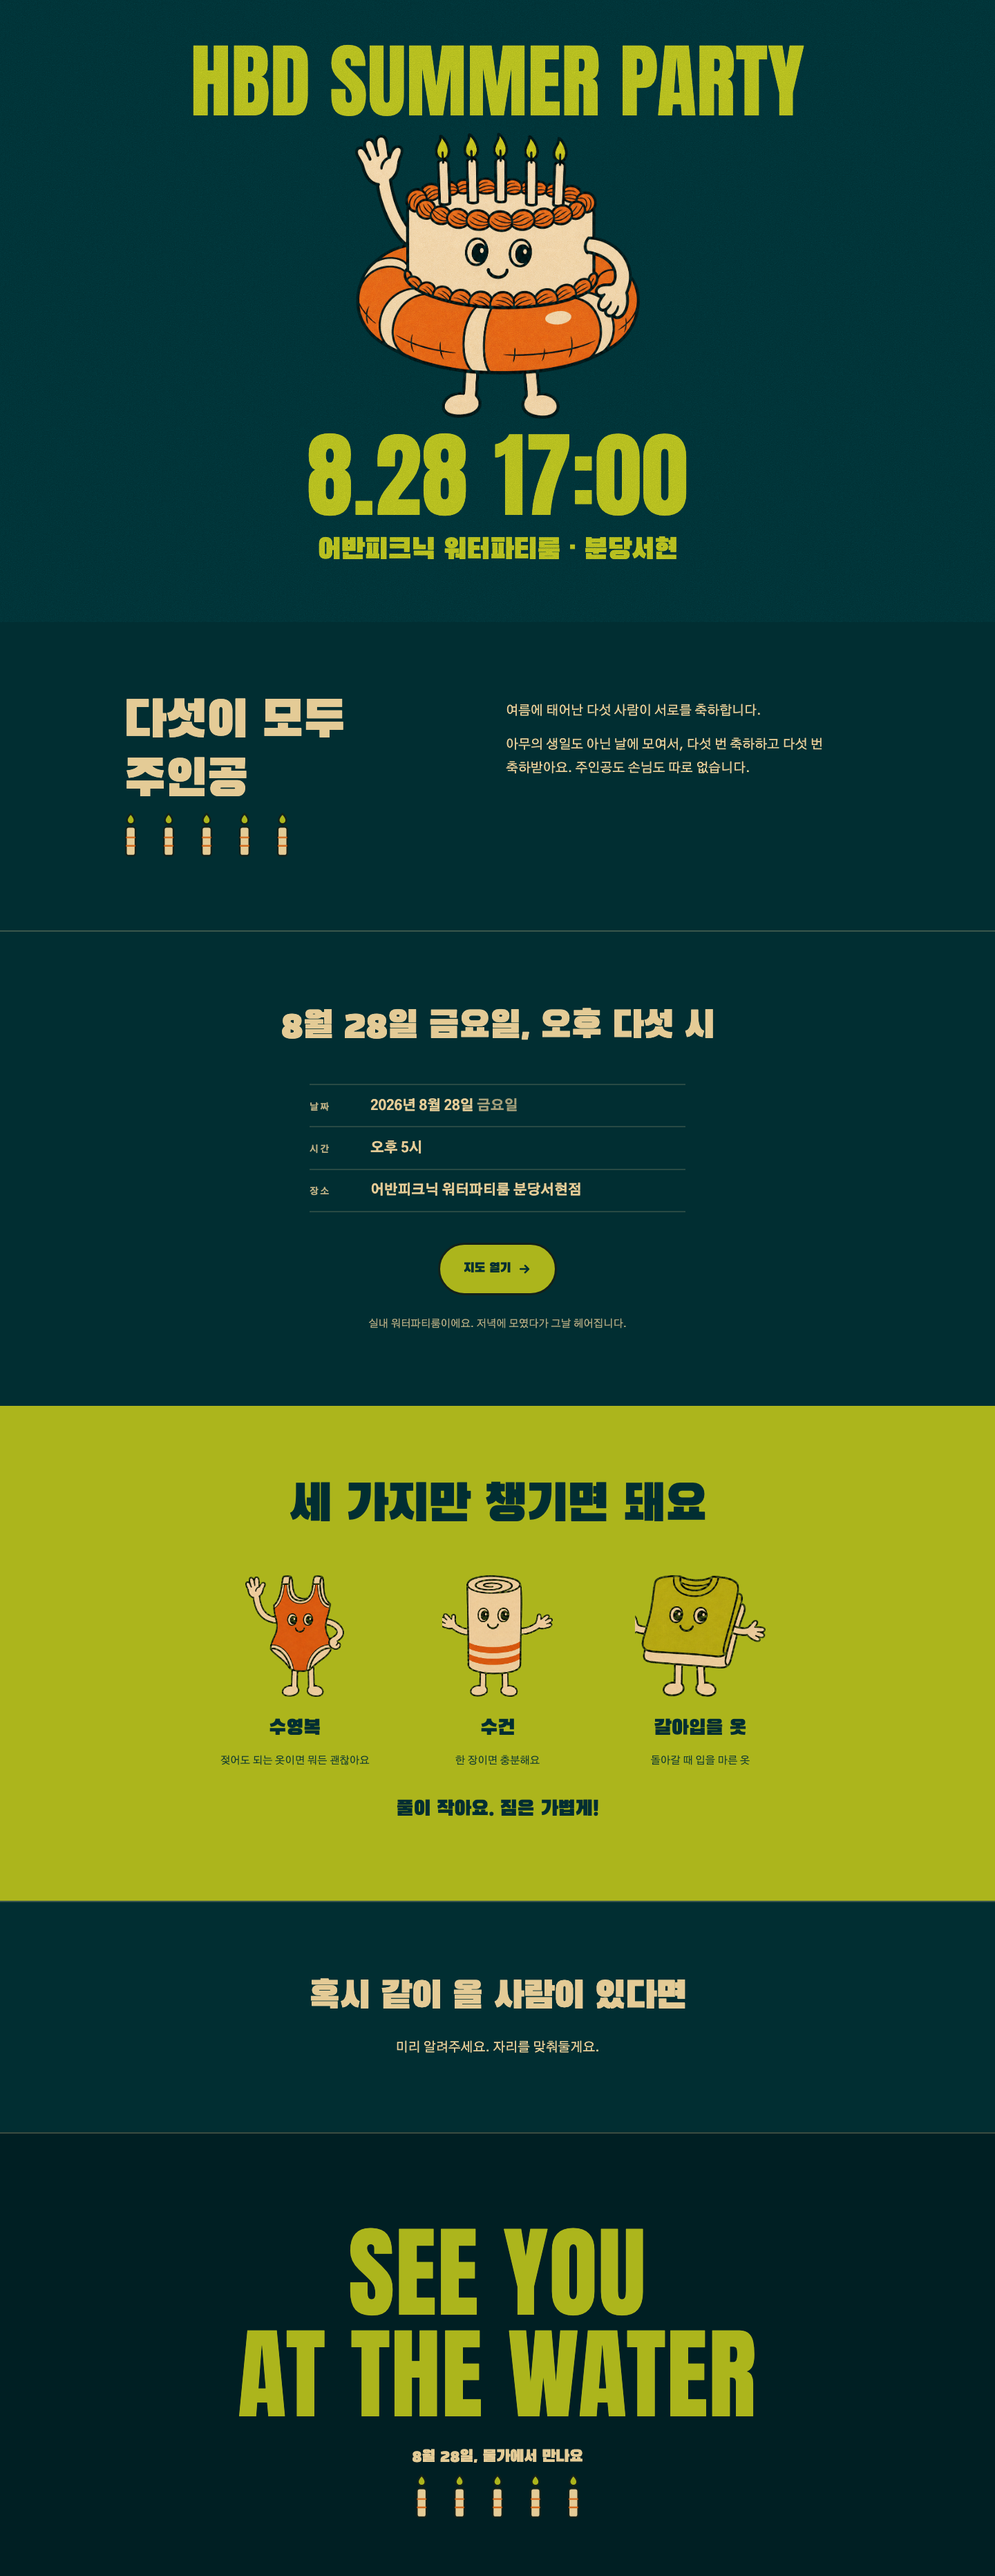
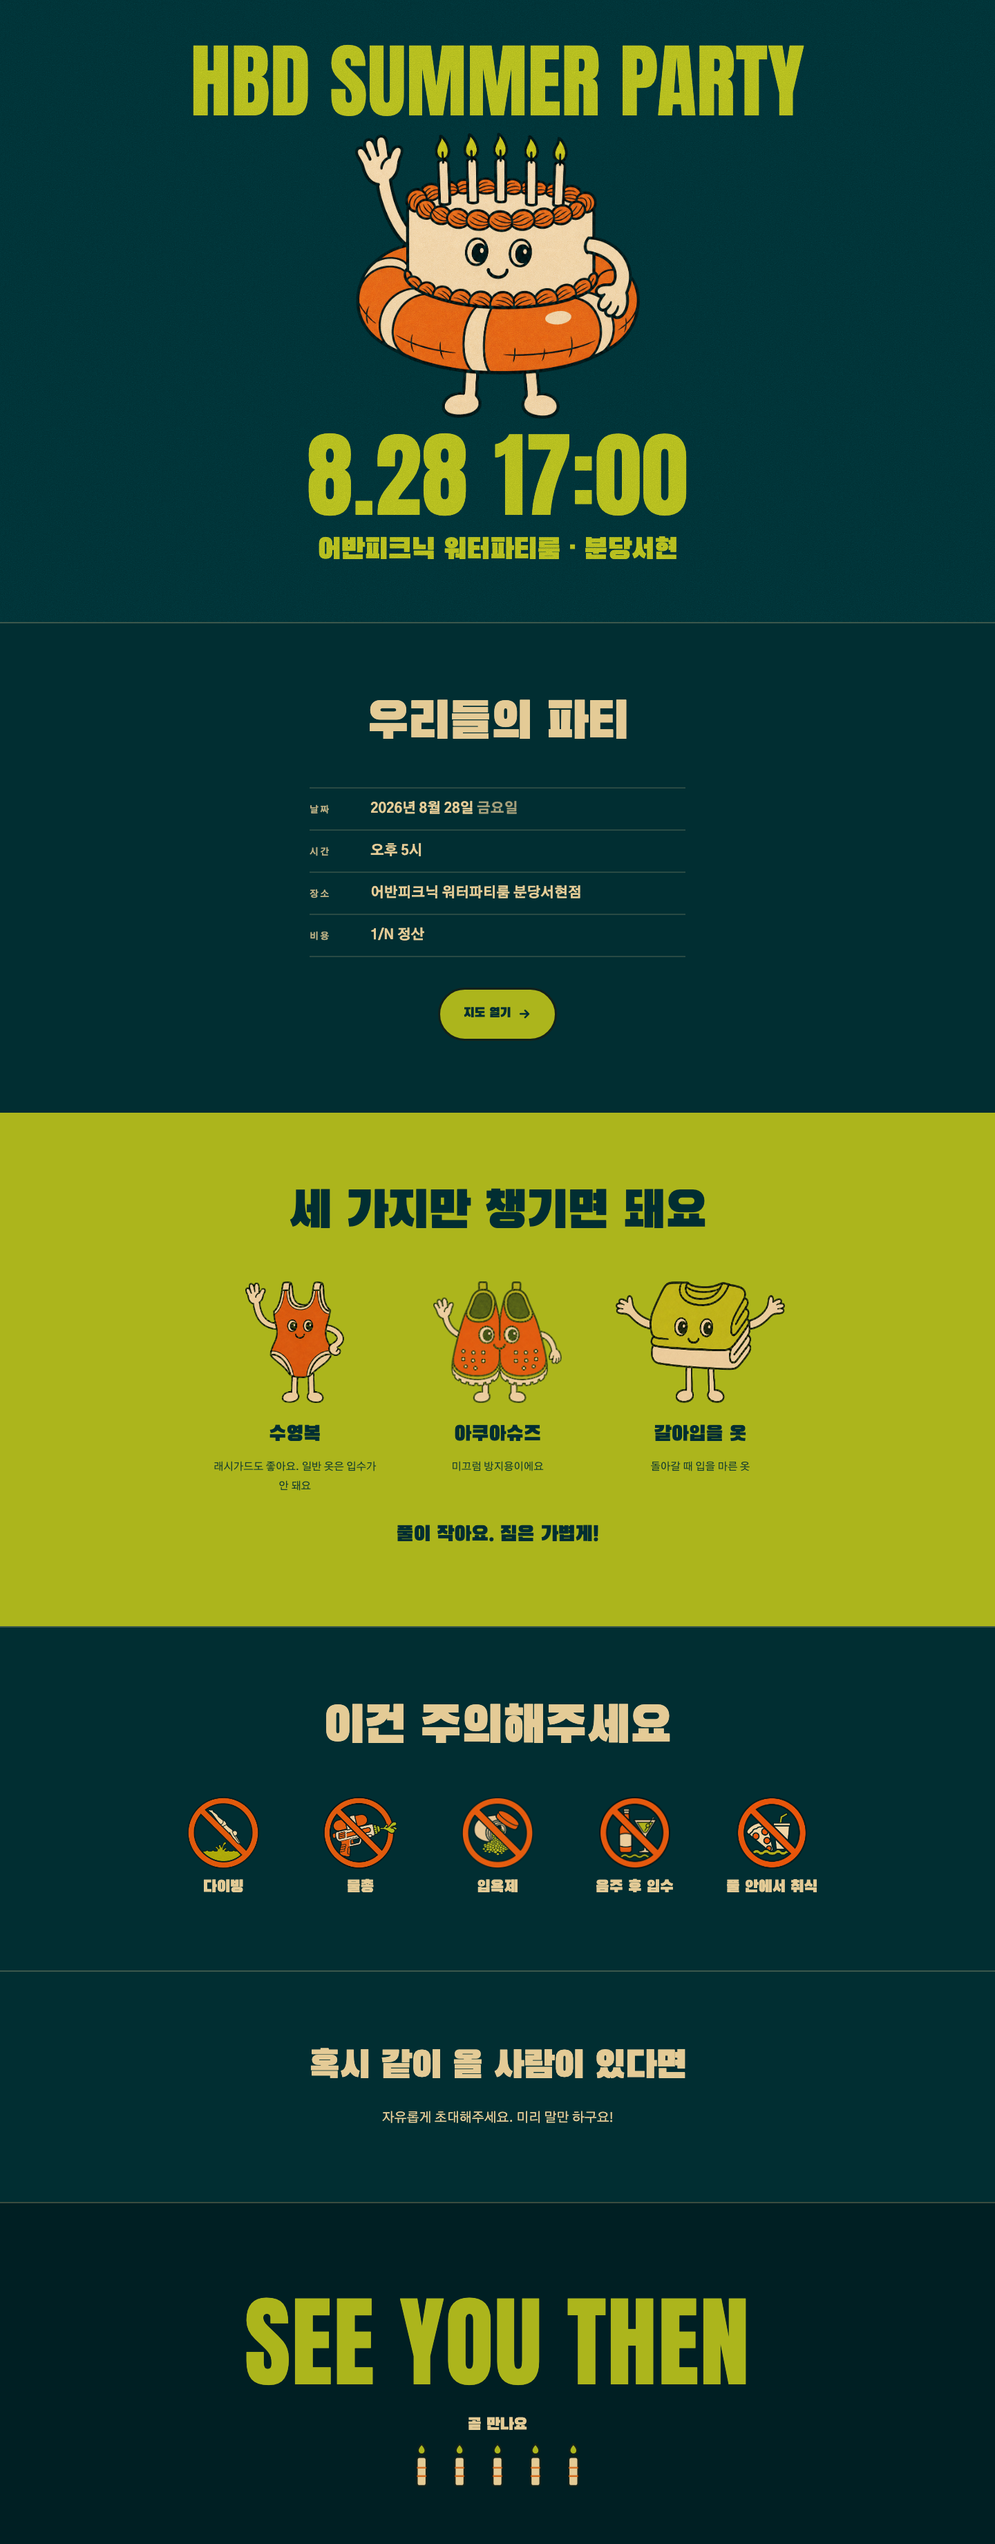
Update the invitation for the host's corrections
Content changes requested by the host:
- drop the "다섯이 모두 주인공" section
- retitle the particulars to "우리들의 파티" and add a 비용 row (1/N 정산)
- drop the indoor/evening note
- close on "See you then" / "곧 만나요"
- open the invite copy up: "자유롭게 초대해주세요. 미리 말만 하구요!"

Two of these correct facts the site had wrong, so PRODUCT.md is corrected too
rather than only the page:
- the venue does NOT allow ordinary clothes in the water. Only a swimsuit or a
  rashguard. The old "젖어도 되는 옷" wording was the opposite of the rule.
- towels are provided by the venue, so 수건 leaves the packing list and
  아쿠아슈즈 (slip protection) takes its place. Still three items.

New "이건 주의해주세요" section carries the five venue rules — no diving, no
water guns, no bath salts, no swimming after drinking, no eating in the pool —
each with its own generated prohibition icon in the page's silkscreen style.

The two kit rasters that were clipped at the source sheet's crop boundary are
replaced with individually generated art, so nothing is cut off on the left.
The superseded rasters are deleted rather than left unreferenced.

Changed region(s): [[0.0, 0.2499, 1.0, 0.9685], [0.3125, 0.0625, 0.6875, 0.2187]]

diff --git a/PRODUCT.md b/PRODUCT.md
@@ -64,9 +64,13 @@ the others contradicts the product.
 - The single-day evening event has no overnight stay. Indoors, in a water party room
   with a small pool area.
 - Formality is come-as-you-are: a casual gathering of close friends.
-- Guests must arrive with light swim gear — a swimsuit or clothes that can get wet, a
-  towel, and a change of clothes. The pool area is small, so the instruction is to
-  pack light. This is the one piece of practical content the site must deliver.
+- Guests must arrive with light swim gear. **Corrected 2026-08-25:** the venue does
+  NOT permit ordinary clothes in the water — only a swimsuit or a rashguard. Aqua
+  shoes are wanted too, for slip protection. **Towels are provided by the venue** and
+  are no longer a guest's responsibility. The list is therefore: swimsuit or
+  rashguard, aqua shoes, a change of clothes. The pool area is small, so the
+  instruction is still to pack light. This is the one piece of practical content the
+  site must deliver, and the earlier "clothes that can get wet" wording was wrong.
 - A venue map link is confirmed and supplied: <https://naver.me/Fr7bgqO0> (Naver Map
   short link). This is the only outbound link the site has. No street address, phone
   number, or transit detail beyond it has been supplied, and none may be invented.
@@ -84,7 +88,11 @@ Confirmed content the site carries:
 - Date and time: Friday, August 28, 2026, 5:00 PM
 - Venue: Urban Picnic 어반피크닉 워터파티룸 분당서현점
 - Venue map link: <https://naver.me/Fr7bgqO0>
-- What to bring: swimsuit or clothes that can get wet, towel, change of clothes; pack light
+- What to bring: swimsuit or rashguard (ordinary clothes are not allowed in the water),
+  aqua shoes, a change of clothes; pack light. Towels are provided by the venue.
+- Cost: 1/N 정산 — split evenly
+- Venue rules: no diving, no water guns, no bath salts, no swimming after drinking,
+  no eating in the pool
 - The five birthday people, as a count and a motif only.
 
 **No person is named on the site. This includes the host.** The organizer is 민서, and
@@ -147,9 +155,10 @@ someone tries to use it.
    prominent breaks the premise, and since no one is named at all — host included —
    the page has to carry warmth without a byline to lean on.
 
-4. **Nobody leaves without their towel.** With RSVP already settled, the one thing the
-   site can still get wrong is a guest arriving with nothing to swim in. Practical
-   preparation is a first-class outcome, not a footnote.
+4. **Nobody arrives unable to get in the water.** With RSVP already settled, the one
+   thing the site can still get wrong is a guest turning up in clothes the venue will
+   not allow in the pool. Practical preparation is a first-class outcome, not a
+   footnote — and the packing list is a venue rule, not a suggestion.
 
 5. **Absent facts stay visibly absent.** A placeholder that looks real is worse than a
    blank. Everything the site states is on the confirmed list above; anything not on it
